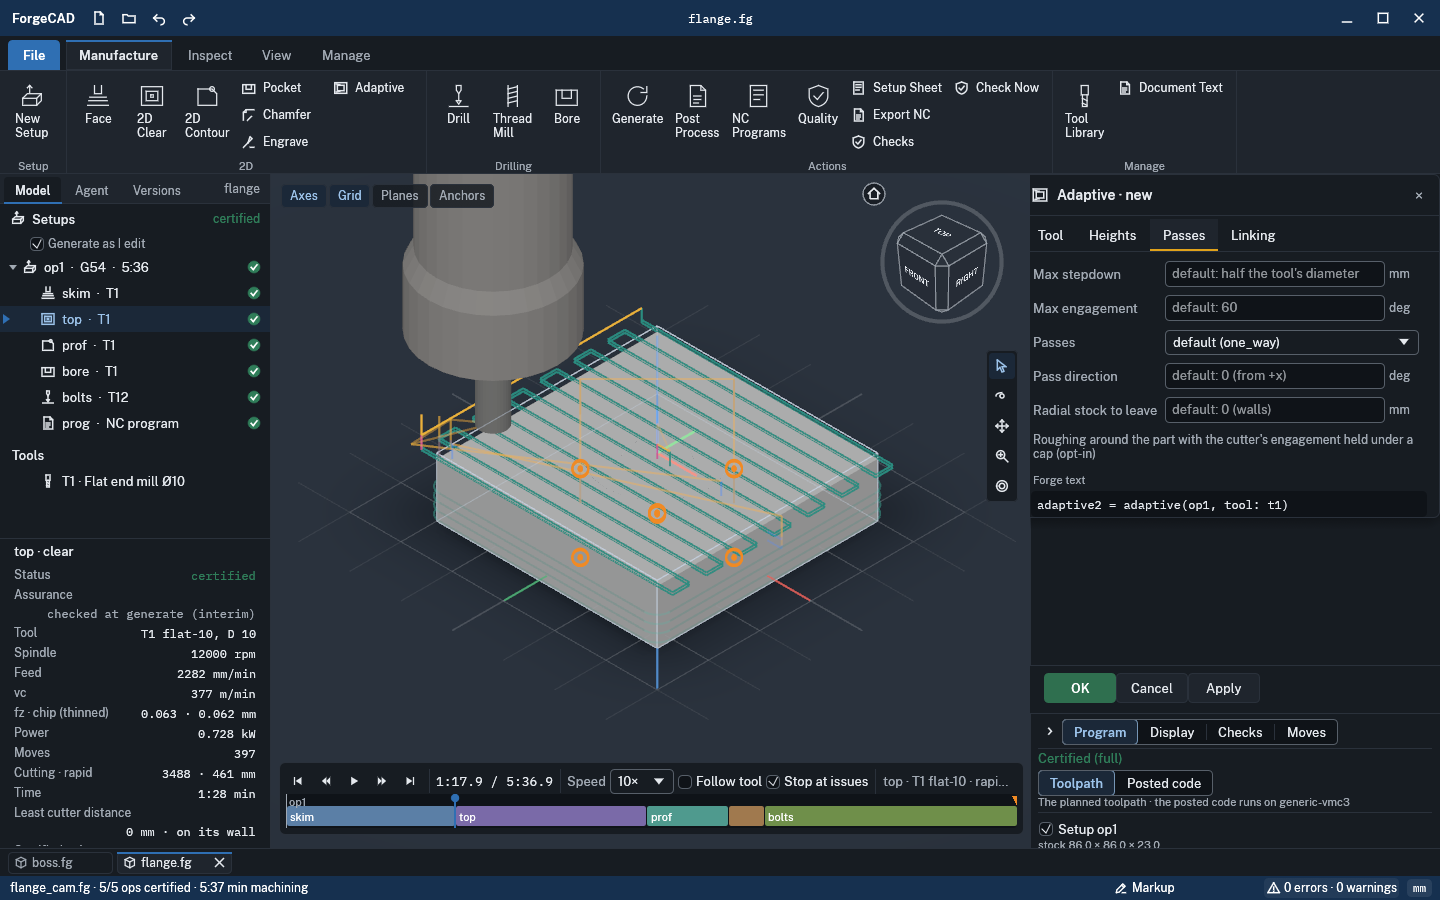
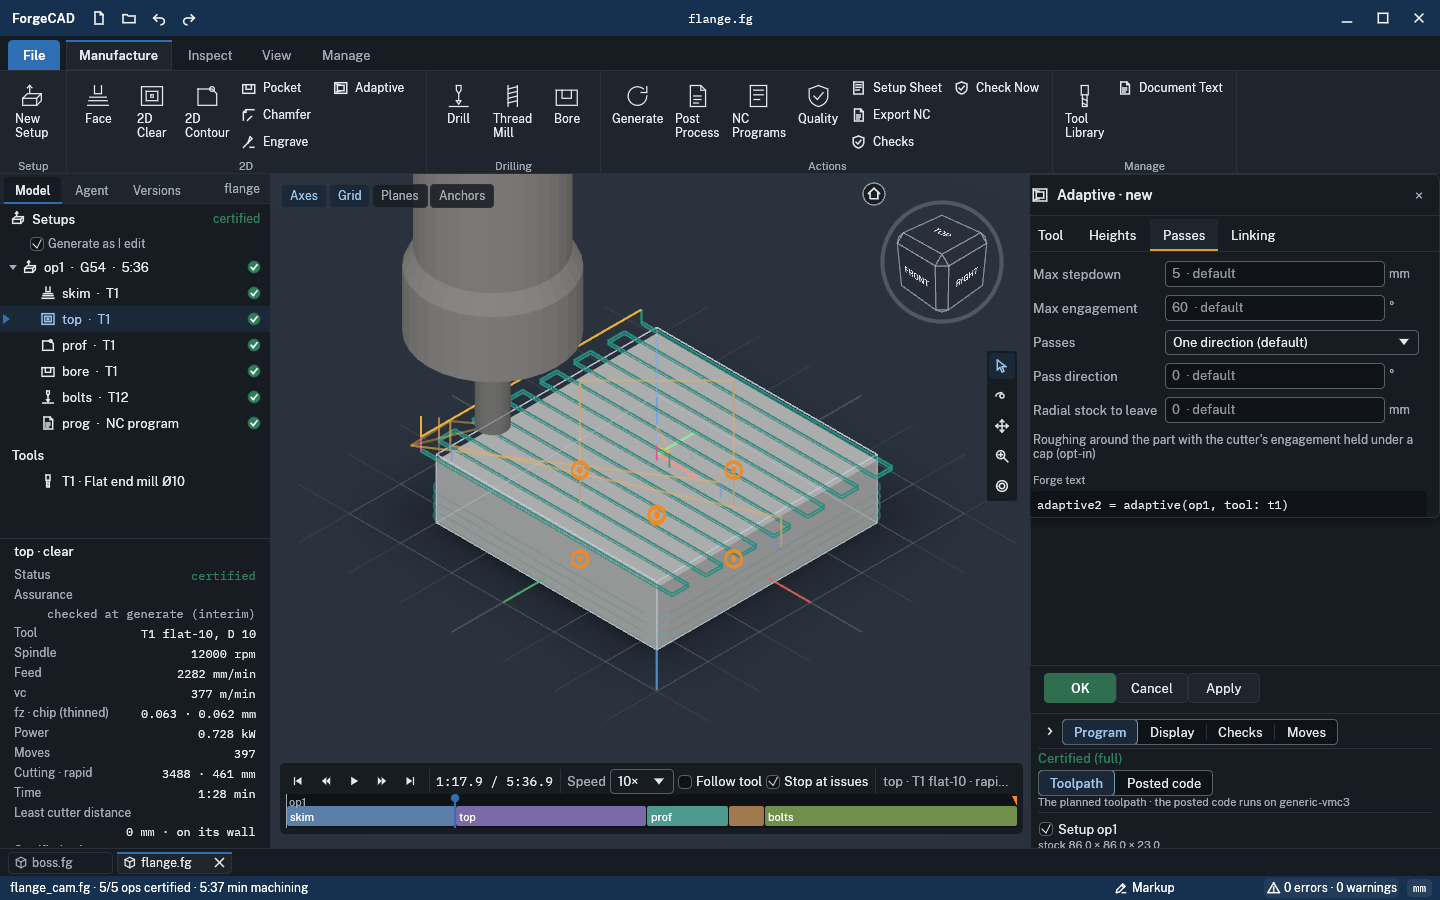
Manufacture: Adaptive's final tooltip; op sheets show a default's value ("5 · default", the rule on hover), angles in °, choices in words (the Forge word on hover); suppressing an op no longer leaves the later ones stale
- run::stale: an op already suppressed in the run is not a statement taken out since (every
  later op of its setup stayed stale for good after a suppress, Generate as I edit or not)
- nav.rs: go_to's doc line back above go_to (heading_to above it, BENDSIM-ENV's jump_to merges
  as both)
- page verbs ok, suppress, earlier; cam-46: the adaptive op made ahead of Clear, its path

Claude-Session: https://claude.ai/code/session_01WJtawySQLKzpnK7g6t2CVB

diff --git a/interface/forge-render/src/shell/cam/ui.rs b/interface/forge-render/src/shell/cam/ui.rs
@@ -199,6 +199,36 @@ pub fn num(x: f64) -> String {
 }
 
 /// A time as m:ss.
+/// A choice's words for a person (the Forge word on hover): `passes: "one_way"` reads "One
+/// direction".
+fn choice_words(arg: &str, word: &str) -> String {
+    match (arg, word) {
+        ("passes", "one_way") => "One direction".into(),
+        ("passes", "two_way") => "Both directions".into(),
+        _ => {
+            let w = word.replace('_', " ");
+            let mut c = w.chars();
+            c.next().map_or(String::new(), |f| f.to_uppercase().collect::<String>() + c.as_str())
+        }
+    }
+}
+
+/// A default's value, where its words give one: a leading number ("0 (walls)", "60"), or a
+/// share of the tool's diameter ("half the tool's diameter", "0.4 × the tool's diameter").
+fn default_value(words: &str, tool_d: Option<f64>) -> Option<f64> {
+    let lead: String = words.chars().take_while(|c| c.is_ascii_digit() || *c == '.').collect();
+    if !lead.is_empty() && !words.contains("tool's diameter") {
+        return lead.parse().ok();
+    }
+    let d = tool_d?;
+    if words.starts_with("half the tool's diameter") {
+        return Some(0.5 * d);
+    }
+    let (k, rest) = words.split_once(" \u{d7} ")?;
+    rest.starts_with("the tool's diameter").then_some(())?;
+    Some(k.trim().parse::<f64>().ok()? * d)
+}
+
 fn short_time(s: f64) -> String {
     format!("{}:{:02}", (s / 60.0).floor(), (s % 60.0).floor() as u32)
 }
@@ -1174,6 +1204,22 @@ fn arg_field(
     key: &str,
     places: &mut Places,
 ) {
+    arg_field_tip(ui, t, label, v, hint, "", unit, key, places);
+}
+
+/// As `arg_field`, with `tip` on hover (a default's rule).
+#[allow(clippy::too_many_arguments)]
+fn arg_field_tip(
+    ui: &mut Ui,
+    t: &Theme,
+    label: &str,
+    v: &mut String,
+    hint: &str,
+    tip: &str,
+    unit: &str,
+    key: &str,
+    places: &mut Places,
+) {
     row(ui, t, label, DLG_W, 30.0, |ui| {
         let r = ui.add(
             egui::TextEdit::singleline(v)
@@ -1182,6 +1228,9 @@ fn arg_field(
                 .desired_width(ui.available_width() - 40.0)
                 .margin(vec2(7.0, 5.0)),
         );
+        if !tip.is_empty() {
+            r.clone().on_hover_text(tip);
+        }
         places.push((key.to_string(), r.rect));
         ui.add_space(4.0);
         ui.label(egui::RichText::new(unit).font(sans(12.0)).color(t.ink2));
@@ -1219,6 +1268,11 @@ fn arg_choice(
                     }
                 }
             });
+        // the Forge word it writes, on hover (an op's keyword choices)
+        if let Some(arg) = key.strip_prefix("cam:op:arg:") {
+            let words = if v.is_empty() { "not written (the default)".to_string() } else { format!("{arg}: {v}") };
+            r.response.clone().on_hover_text(format!("Forge text: {words}"));
+        }
         places.push((key.to_string(), r.response.rect));
     });
 }
@@ -1306,21 +1360,37 @@ fn op_dialog(
                 d.name = name;
                 fact(ui, t, "Setup", &d.setup, DLG_W, t.ink);
             }
+            // the chosen tool's diameter: the defaults that follow from it, as numbers
+            let tool_d = w
+                .lib
+                .tools
+                .iter()
+                .find(|x| w.stmt(d.get("tool")).and_then(|s| s.pos(0)).map(super::doc::unquote).as_deref() == Some(x.id.as_str()))
+                .map(|x| x.dc);
             for f in spec.fields.iter().filter(|f| f.tab == tab) {
                 let key = format!("cam:op:arg:{}", f.arg);
                 let mut val = d.get(f.arg).to_string();
-                let hint = if f.required { "required".to_string() } else { format!("default: {}", f.default) };
+                // a default: its value where it is a number (or the tool's diameter gives one),
+                // "default" beside it, the rule on hover
+                let (hint, tip) = if f.required {
+                    ("required".to_string(), String::new())
+                } else {
+                    match default_value(f.default, tool_d) {
+                        Some(v) => (format!("{}  \u{b7} default", num(v)), format!("Default: {}", f.default)),
+                        None => (format!("default: {}", f.default), String::new()),
+                    }
+                };
                 match f.kind {
-                    Kind::Len => arg_field(ui, t, f.label, &mut val, &hint, "mm", &key, places),
-                    Kind::Deg => arg_field(ui, t, f.label, &mut val, &hint, "deg", &key, places),
+                    Kind::Len => arg_field_tip(ui, t, f.label, &mut val, &hint, &tip, "mm", &key, places),
+                    Kind::Deg => arg_field_tip(ui, t, f.label, &mut val, &hint, &tip, "\u{b0}", &key, places),
                     Kind::Z => arg_field(ui, t, f.label, &mut val, &hint, "mm z", &key, places),
                     Kind::Count => arg_field(ui, t, f.label, &mut val, &hint, "", &key, places),
                     Kind::Choice(words) => {
                         let mut items: Vec<(String, String)> = vec![];
                         if !f.required {
-                            items.push((String::new(), format!("default ({})", f.default)));
+                            items.push((String::new(), format!("{} (default)", choice_words(f.arg, f.default))));
                         }
-                        items.extend(words.iter().map(|w| (format!("\"{w}\""), (*w).to_string())));
+                        items.extend(words.iter().map(|w| (format!("\"{w}\""), choice_words(f.arg, w))));
                         arg_choice(ui, t, f.label, &mut val, &items, &key, places);
                     }
                     Kind::Tool => {
@@ -3185,4 +3255,22 @@ fn docked_foot(
             foot(ui, t, key, apply, places)
         })
         .inner
+}
+
+#[cfg(test)]
+mod tests {
+    use super::{choice_words, default_value};
+
+    #[test]
+    fn defaults_read_as_their_values() {
+        assert_eq!(default_value("half the tool's diameter", Some(10.0)), Some(5.0));
+        assert_eq!(default_value("0.4 × the tool's diameter", Some(10.0)), Some(4.0));
+        assert_eq!(default_value("half the tool's diameter", None), None);
+        assert_eq!(default_value("0 (walls)", None), Some(0.0));
+        assert_eq!(default_value("0 (from +x)", None), Some(0.0));
+        assert_eq!(default_value("60", None), Some(60.0));
+        assert_eq!(default_value("the stock's top", Some(10.0)), None);
+        assert_eq!(choice_words("passes", "two_way"), "Both directions");
+        assert_eq!(choice_words("side", "outside"), "Outside");
+    }
 }

diff --git a/interface/forge-render/tests/cam_ui.rs b/interface/forge-render/tests/cam_ui.rs
@@ -531,3 +531,20 @@ fn adaptive_is_an_opt_in_op_whose_fields_generate() {
     assert!(op.refusal.is_none(), "{:?}", op.refusal);
     assert!(op.moves > 0, "adaptive made no moves");
 }
+
+/// Suppressing an op generates again (Generate as I edit): the ops after it are made, not left
+/// stale.
+#[test]
+fn suppressing_an_op_generates_again() {
+    use forge_render::shell::cam::Cmd;
+    let Some((mut h, _)) = open("suppress") else { return };
+    h.gui.shell.cam.as_mut().unwrap().command(Cmd::Suppress("top".into()));
+    settle(&mut h);
+    let w = h.gui.shell.cam.as_ref().unwrap();
+    assert_eq!(w.status("top"), "suppressed");
+    // made again (bolts may be refused: its drill now meets the stock top would have cleared)
+    for op in ["prof", "bore", "bolts"] {
+        assert!(["built", "refused"].contains(&w.status(op)), "{op}: {}", w.status(op));
+    }
+    assert_eq!(w.status("prof"), "built");
+}

diff --git a/interface/forge-render/src/shell/cam/run.rs b/interface/forge-render/src/shell/cam/run.rs
@@ -640,9 +640,10 @@ pub fn stale(ran: &[Stmt], now: &[Stmt]) -> Vec<String> {
             }
         }
     }
-    // a statement taken out (or suppressed) changes what every later op starts from
+    // a statement taken out (or suppressed) changes what every later op starts from; one
+    // already suppressed in the run changed nothing
     for r in ran {
-        if !now.iter().any(|s| s.name == r.name && !s.suppressed) && r.is_op() {
+        if !r.suppressed && !now.iter().any(|s| s.name == r.name && !s.suppressed) && r.is_op() {
             let su = r.setup.clone().unwrap_or_default();
             let mut after = false;
             for s in now {

diff --git a/interface/forge-render/src/webapp.rs b/interface/forge-render/src/webapp.rs
@@ -806,6 +806,13 @@ fn cam_words(g: &mut Gui, words: &str) -> Result<(), String> {
             let (k, v) = rest.split_once(' ').unwrap_or((rest, ""));
             w.op_dlg.as_mut().ok_or("no op dialog")?.set(k, v.into());
         }
+        "earlier" => w.command(Cmd::Move(rest.into(), true)),
+        "suppress" => w.command(Cmd::Suppress(rest.into())),
+        "ok" => {
+            // the op dialog's OK
+            let d = w.op_dlg.take().ok_or("no op dialog")?;
+            w.op_ok(&d)?;
+        }
         "post" => w.command(Cmd::PostProcess),
         "tools" => w.command(Cmd::ToolLibrary),
         "programs" => w.command(Cmd::Programs),

diff --git a/interface/forge-render/src/nav.rs b/interface/forge-render/src/nav.rs
@@ -732,12 +732,12 @@ impl Nav {
         true
     }
 
-    /// Starts a smooth move to a view; any mouse press or wheel stops it where it is.
     /// Where the camera is going: a transition's end, else where it is.
     pub fn heading_to(&self) -> Camera {
         self.transition.as_ref().map_or(self.camera, |t| t.to)
     }
 
+    /// Starts a smooth move to a view; any mouse press or wheel stops it where it is.
     pub fn go_to(&mut self, to: Camera) {
         self.transition = Some(Transition {
             from: self.camera,
